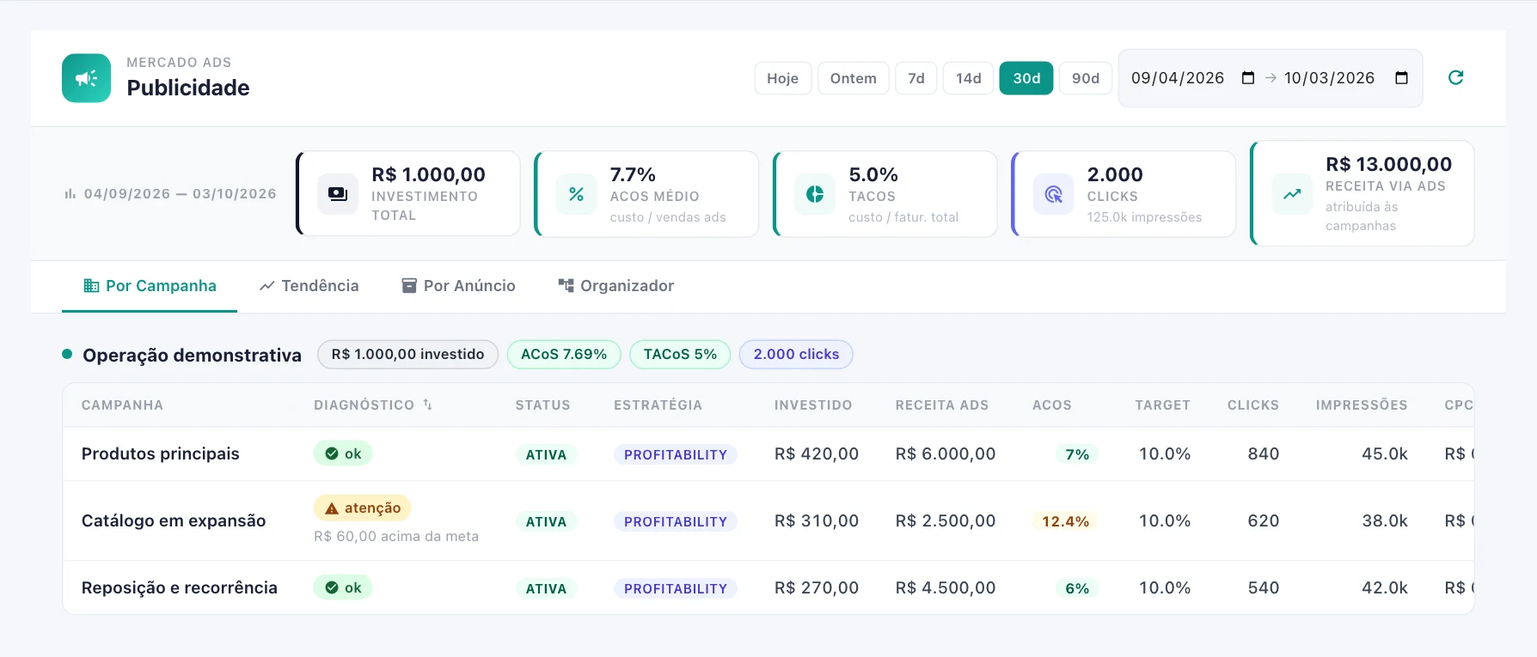
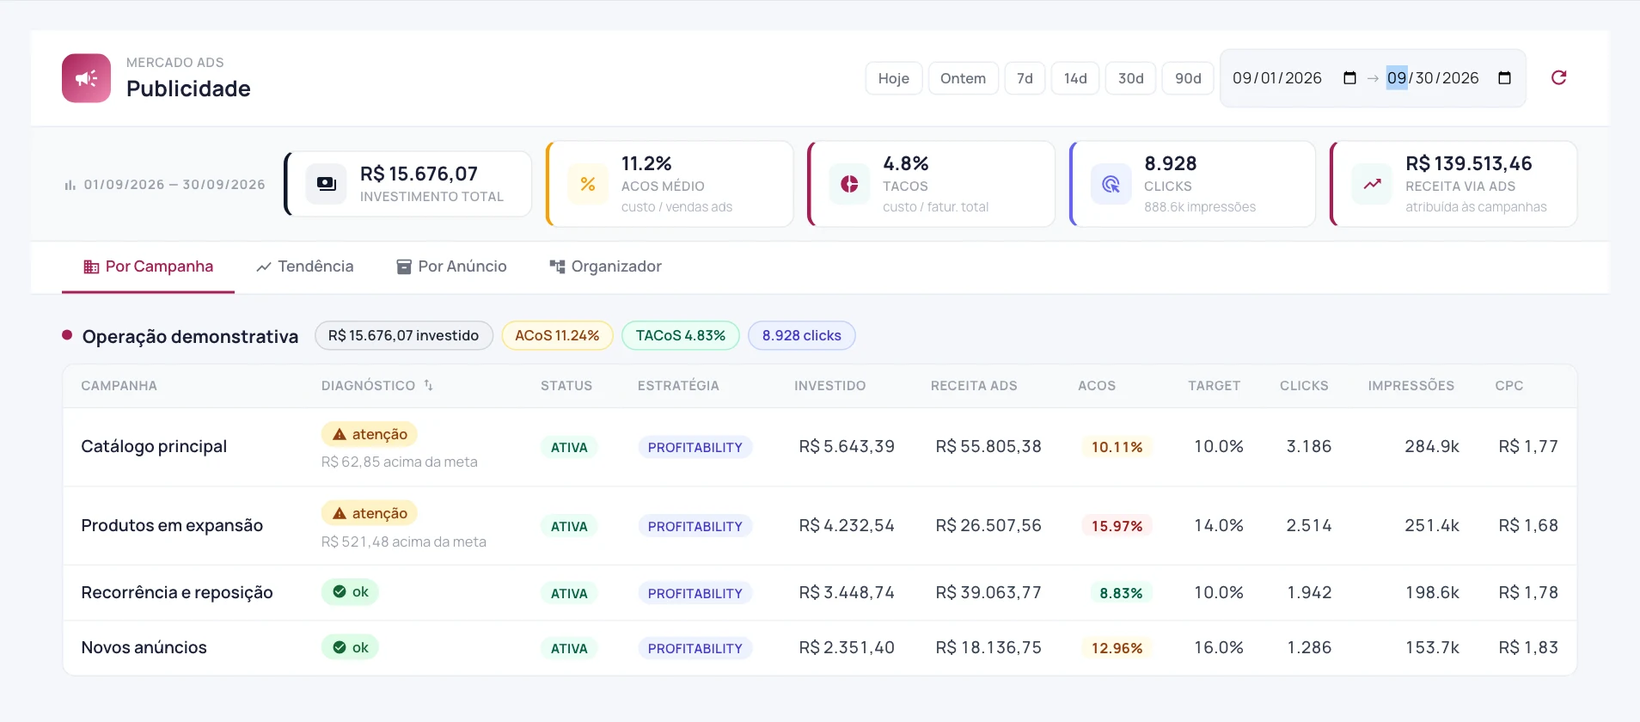
feat(IDV-37): apresente dashboard, cases e seções por análise

diff --git a/src/components/landing/SellerBotTools.vue b/src/components/landing/SellerBotTools.vue
@@ -1,40 +1,38 @@
 <template>
-  <div class="tools-explorer">
-    <div class="tool-selector" role="group" aria-label="Explorar ferramentas do SellerBot">
-      <button v-for="tool in tools" :key="tool.id" type="button" :aria-pressed="active.id === tool.id" aria-controls="tool-detail" @click="active = tool"><span>{{ tool.number }}</span>{{ tool.name }}<span class="tool-arrow" aria-hidden="true">↗</span></button>
-    </div>
-    <div id="tool-detail" class="tool-detail" role="region" aria-label="Detalhes da ferramenta selecionada" aria-live="polite">
-      <div class="tool-detail-heading"><span>SELLERBOT / {{ active.name.toUpperCase() }}</span><span>{{ active.channels }}</span></div>
-      <h3>{{ active.title }}</h3>
-      <p>{{ active.description }}</p>
-      <ProductCapture :key="active.id" :src="active.image" :label="active.name" :alt="active.alt" :width="active.width || 1788" :height="active.height" />
-    </div>
+  <div class="analysis-sequence">
+    <section v-for="analysis in analyses" :id="analysis.id" :key="analysis.id" class="analysis-section" :aria-labelledby="`${analysis.id}-title`">
+      <div class="wrap analysis-grid">
+        <div class="analysis-copy"><p class="eyebrow">{{ analysis.number }} / {{ analysis.name }}</p><h2 :id="`${analysis.id}-title`">{{ analysis.title }}<br><em>{{ analysis.emphasis }}</em></h2><p>{{ analysis.description }}</p><span class="analysis-question">{{ analysis.question }}</span><small>{{ analysis.channels }}</small></div>
+        <ProductCapture :src="analysis.image" :label="analysis.name" :alt="analysis.alt" :width="analysis.width" :height="analysis.height" />
+      </div>
+    </section>
   </div>
 </template>
 <script setup>
-import { ref } from 'vue';
 import ProductCapture from './ProductCapture.vue';
-// Capacidades descritas pelo acervo técnico; não simula métricas nem execução da conta.
-const tools = [
-  { id: 'ads', image: '/images/sellerbot/ads.webp', height: 765, alt: 'Tela de publicidade do SellerBot: investimento, ACoS, TACoS e diagnóstico por campanha, com dados demonstrativos.', channels: 'MERCADO LIVRE', number: '01', name: 'IA em Ads', title: 'Campanhas com diagnóstico.', description: 'Analisa campanhas e relaciona investimento, vendas e custos para propor decisões.', steps: ['Ler campanhas', 'Analisar indicadores', 'Revisar prioridades'], outcome: 'Onde concentrar o investimento. O que precisa de revisão.' },
-  { id: 'promotions', image: '/images/sellerbot/promocoes.webp', height: 1170, alt: 'Assistente de promoções do SellerBot: execução por conta e cobertura promocional dos anúncios, com dados demonstrativos.', channels: 'MERCADO LIVRE', number: '02', name: 'Promoções', title: 'Desconto com critério.', description: 'Simula condições e avalia contribuição antes de propor uma promoção.', steps: ['Conferir custos', 'Simular desconto', 'Revisar proposta'], outcome: 'Limites de desconto alinhados à régua da empresa.' },
-  { id: 'pricing', image: '/images/sellerbot/precos.webp', width: 840, height: 509, alt: 'Cascata da margem no SellerBot: impostos, taxas, frete, embalagem, publicidade e custo do produto, com dados demonstrativos.', channels: 'MERCADO LIVRE + SHOPEE', number: '03', name: 'Precificação', title: 'O preço começa nos custos.', description: 'Relaciona produto, comissão, frete e impostos nas simulações de preço.', steps: ['Compor custos', 'Simular preço', 'Avaliar margem'], outcome: 'Preço e contribuição vistos na mesma conta.' },
-  { id: 'listings', image: '/images/sellerbot/anuncios.webp', height: 1490, alt: 'Interface do SellerBot AI com atalhos de análise e campo de mensagem para preparar um anúncio.', channels: 'MERCADO LIVRE + SHOPEE', number: '04', name: 'Criação de anúncios', title: 'Da ficha à publicação.', description: 'Apoia ficha, atributos, descrição e imagens, com revisão por marketplace.', steps: ['Preparar produto', 'Montar anúncio', 'Revisar e publicar'], outcome: 'Um fluxo de criação com critérios e revisão.' },
+const analyses = [
+  { id: 'analise-ads', number: '01', name: 'IA em Ads', title: 'Sua campanha vende.', emphasis: 'E o investimento?', description: 'Campanhas, custo e receita no mesmo painel. O diagnóstico destaca onde olhar antes de aumentar a verba.', question: 'Decisão: investir, revisar ou reduzir.', channels: 'MERCADO LIVRE', image: '/images/sellerbot/ads.webp', width: 1908, height: 840, alt: 'Publicidade do SellerBot na paleta Krivus: investimento, ACoS, TACoS e diagnóstico de quatro campanhas. Dados demonstrativos.' },
+  { id: 'analise-promocoes', number: '02', name: 'Promoções', title: 'O desconto tem limite.', emphasis: 'A margem define.', description: 'Preço, custos e contribuição antes da oferta. Depois, acompanhamento das promoções e do que foi confirmado na operação.', question: 'Decisão: qual oferta cabe no produto.', channels: 'MERCADO LIVRE', image: '/images/sellerbot/promocoes.webp', width: 1812, height: 413, alt: 'Cobertura promocional no SellerBot: anúncios ativos, com promoção, agendados e sem oferta. Dados demonstrativos.' },
+  { id: 'analise-precos', number: '03', name: 'Preço e margem', title: 'O preço da vitrine.', emphasis: 'A conta por trás.', description: 'Produto, comissão, frete, impostos e mídia. A composição dos custos orienta as simulações de preço por canal.', question: 'Decisão: quanto precisa ficar em cada venda.', channels: 'MERCADO LIVRE + SHOPEE', image: '/images/sellerbot/precos.webp', width: 840, height: 510, alt: 'Cascata de custos e contribuição do SellerBot na paleta Krivus. Dados demonstrativos reconciliados com o dashboard.' },
+  { id: 'analise-anuncios', number: '04', name: 'Criação de anúncios', title: 'Um produto.', emphasis: 'Um anúncio bem feito.', description: 'IA para apoiar ficha, atributos, descrição e imagens. Preparação e revisão considerando as regras de cada marketplace.', question: 'Decisão: o que está pronto para publicar.', channels: 'MERCADO LIVRE + SHOPEE', image: '/images/sellerbot/anuncios.webp', width: 1908, height: 1535, alt: 'SellerBot AI na paleta Krivus, com uma mensagem em rascunho para preparar um anúncio. Nada foi enviado ou publicado.' },
 ];
-const active = ref(tools[0]);
 </script>
 <style scoped>
-.tools-explorer { margin-top:38px; }
-.tool-selector { display:grid; grid-template-columns:repeat(4,1fr); border-bottom:1px solid var(--line); margin-bottom:30px; }
-.tool-selector button { display:flex; align-items:center; gap:14px; min-height:64px; padding:16px 12px; color:var(--muted); background:transparent; border:0; border-bottom:3px solid transparent; font:600 16px/1.4 Manrope,Arial,sans-serif; text-align:left; cursor:pointer; }
-.tool-selector button>span:first-child { font-size:10px; font-weight:500; }
-.tool-selector button[aria-pressed='true'] { color:var(--accent); border-bottom-color:var(--accent); }
-.tool-arrow { margin-left:auto; }
-button:focus-visible { outline:3px solid var(--accent); outline-offset:3px; }
-.tool-detail :deep(.capture-window) { max-height:540px; }
-.tool-detail :deep(.capture-window img) { max-height:540px; object-fit:contain; object-position:top; }
-.tool-detail-heading { display:flex; justify-content:space-between; gap:20px; margin-bottom:12px; font-size:9px; letter-spacing:.08em; color:var(--muted); }
-h3 { font:600 30px/1.1 Manrope,Arial,sans-serif; letter-spacing:-.04em; color:var(--ink); margin:0 0 12px; }
-.tool-detail p { font-size:14px; color:var(--muted); margin:0 0 26px; line-height:1.6; }
-@media(max-width:760px) { .tools-explorer { margin-top:24px; } .tool-selector { grid-template-columns:repeat(2,1fr); margin-bottom:22px; } .tool-selector button { min-height:56px; font-size:12px; gap:8px; padding:12px 4px; } .tool-arrow { display:none; } h3 { font-size:27px; } .tool-detail p { font-size:13px; margin-bottom:20px; } }
+.analysis-section { padding:78px 0; border-bottom:1px solid var(--line); }
+.analysis-section:nth-child(even) { background:var(--surface); }
+.analysis-grid { display:grid; grid-template-columns:minmax(0,.85fr) minmax(0,1.65fr); gap:58px; align-items:center; }
+.analysis-section:nth-child(even) .analysis-copy { order:2; }
+.analysis-section:nth-child(even) .analysis-grid { grid-template-columns:minmax(0,1.65fr) minmax(0,.85fr); }
+.analysis-copy h2 { font:600 clamp(31px,3vw,44px)/1.1 Manrope,Arial,sans-serif; color:var(--ink); letter-spacing:-.045em; margin:0 0 23px; }
+.analysis-copy em { font-style:normal; color:var(--accent); }
+.analysis-copy p { font-size:14px; color:var(--muted); line-height:1.65; margin:0 0 22px; }
+.analysis-copy .eyebrow { color:var(--accent); font-size:10px; font-weight:700; letter-spacing:.1em; margin-bottom:23px; }
+.analysis-question { display:block; padding-top:17px; border-top:1px solid var(--line); font-size:12px; color:var(--ink); font-weight:600; }
+.analysis-copy small { display:block; margin-top:20px; font-size:8px; letter-spacing:.08em; color:var(--muted); }
+.wrap { width:min(1240px,calc(100% - 96px)); margin:auto; }
+.analysis-grid :deep(.capture-window) { max-height:420px; }
+.analysis-grid :deep(.capture-window img) { max-height:420px; object-fit:contain; object-position:top; }
+#analise-precos :deep(.capture-window img) { padding:18px; background:white; }
+@media(max-width:1100px) { .wrap { width:calc(100% - 64px); } .analysis-grid { gap:32px; } }
+@media(max-width:760px) { .wrap { width:calc(100% - 40px); } .analysis-section { padding:48px 0; } .analysis-grid { grid-template-columns:minmax(0,1fr); gap:25px; } .analysis-section:nth-child(even) .analysis-copy { order:0; } .analysis-section:nth-child(even) .analysis-grid { grid-template-columns:minmax(0,1fr); } .analysis-copy h2 { font-size:34px; margin-bottom:17px; } .analysis-copy p { font-size:13px; margin-bottom:18px; } .analysis-copy .eyebrow { margin-bottom:18px; } .analysis-question { padding-top:13px; } .analysis-copy small { margin-top:13px; } #analise-precos :deep(.capture-window) { height:auto; } #analise-precos :deep(.capture-window img) { width:100%; height:auto; padding:12px; } }
 </style>

diff --git a/src/pages/LandingPage.vue b/src/pages/LandingPage.vue
@@ -18,21 +18,23 @@
           <a class="button primary" :href="whatsapp.operation" data-offer="operacao">Conversar sobre minha operação <span aria-hidden="true">↗</span></a>
           <a class="hero-tools-link" href="#ferramentas" @click="goToAnchor">Conhecer as ferramentas <span aria-hidden="true">↓</span></a>
         </div>
-        <div class="hero-analysis"><MarginCalculator @navigate="goToAnchor" /></div>
-        <section id="cases" class="hero-cases" aria-labelledby="cases-title"><h2 id="cases-title">CASES E OPERAÇÕES</h2><div class="case-brands"><div v-for="example in cases" :key="example.name"><strong>{{ example.name }}</strong><span>{{ example.topic }}</span></div></div></section>
-      <div class="hero-product"><div class="hero-product-caption"><span>SELLERBOT POR DENTRO</span><a href="#ferramentas" @click="goToAnchor">Explorar ferramentas ↗</a></div><ProductCapture src="/images/sellerbot/tendencia.webp" label="Publicidade e evolução diária" alt="Tela real de publicidade do SellerBot com indicadores e gráfico diário de investimento. Dados demonstrativos." :height="975" /></div>
+        <div class="hero-dashboard"><p class="product-label">SELLERBOT / VISÃO DA OPERAÇÃO</p><ProductCapture src="/images/sellerbot/dashboard.webp" label="Dashboard da operação" alt="Gráfico real do dashboard SellerBot na paleta Krivus, relacionando faturamento, receita, contribuição e publicidade ao longo de setembro. Dados demonstrativos." :width="1368" :height="863" /><p class="hero-insight">Faturamento, mídia e contribuição.<br>A mesma operação, vista por inteiro.</p></div>
+        <div class="hero-case-links" aria-label="Operações acompanhadas"><a v-for="example in cases" :key="example.id" :href="`#${example.id}`" @click="goToAnchor">{{ example.name }} <span aria-hidden="true">↗</span></a></div>
       </div>
     </section>
 
-    <section id="ferramentas" class="section wrap tools-section" aria-labelledby="tools-title">
-      <div class="tools-heading"><div><p class="eyebrow">SELLERBOT · TECNOLOGIA DA KRIVUS</p><h2 id="tools-title">Veja o SellerBot<br><em>em operação.</em></h2></div><p>Escolha uma ferramenta.<br>Veja a interface por dentro.</p></div>
-      <SellerBotTools />
+    <section id="cases" class="section wrap case-stories" aria-labelledby="cases-title">
+      <p class="eyebrow">CASES E OPERAÇÕES</p><h2 id="cases-title">Cada operação,<br><em>uma história.</em></h2>
+      <div class="stories-grid"><article v-for="example in cases" :id="example.id" :key="example.id" :aria-labelledby="`${example.id}-title`"><div class="story-top"><span>{{ example.topic }}</span><span>{{ example.number }}</span></div><h3 :id="`${example.id}-title`">{{ example.name }}</h3><h4>{{ example.headline }}</h4><p>{{ example.story }}</p><div class="story-work"><span>NO TRABALHO</span><p>{{ example.work }}</p></div></article></div>
     </section>
+
+    <section id="ferramentas" class="analysis-intro wrap" aria-labelledby="tools-title"><p class="eyebrow">SELLERBOT · TECNOLOGIA DA KRIVUS</p><h2 id="tools-title">Uma análise para<br><em>cada decisão.</em></h2><nav aria-label="Análises do SellerBot"><a href="#analise-ads" @click="goToAnchor">Ads</a><a href="#analise-promocoes" @click="goToAnchor">Promoções</a><a href="#analise-precos" @click="goToAnchor">Preço e margem</a><a href="#analise-anuncios" @click="goToAnchor">Anúncios</a><a href="#tributario" @click="goToAnchor">Tributário e saúde</a></nav></section>
+    <SellerBotTools />
 
     <section id="tributario" class="tax-section" aria-labelledby="tax-title">
       <div class="wrap section tax-grid">
-        <div><p class="eyebrow">DIAGNÓSTICO DA KRIVUS</p><h2 id="tax-title">O tributário decide<br>quem ganha<br><em>o jogo.</em></h2><a class="text-link" href="#margin-tax" @click="goToAnchor">Simular o impacto na margem <span aria-hidden="true">↑</span></a></div>
-        <div class="tax-decisions"><h3>Tributos e saúde da empresa.</h3><p>Margem, caixa, estoque, compras e carga tributária na mesma análise. Diagnóstico e prioridades para a sua operação.</p><ProductCapture src="/images/sellerbot/precos.webp" label="Composição da margem" alt="Cascata da margem no SellerBot, do faturamento à contribuição após impostos e custos. Dados demonstrativos." :width="840" :height="509" /><p class="tax-note">Na reforma tributária, cenários de IBS e CBS são avaliados com a contabilidade. IBS: Imposto sobre Bens e Serviços. CBS: Contribuição sobre Bens e Serviços.</p><a class="tax-source" href="https://www.gov.br/receitafederal/pt-br/assuntos/noticias/2026/agosto/cgsn-atualiza-regras-do-simples-nacional-para-adequacao-a-reforma-tributaria-do-consumo">Reforma tributária · Receita Federal <span aria-hidden="true">↗</span></a></div>
+        <div><p class="eyebrow">DIAGNÓSTICO DA KRIVUS</p><h2 id="tax-title">O tributário decide<br>quem ganha<br><em>o jogo.</em></h2><a class="text-link" :href="whatsapp.tax" data-offer="tributario">Conversar sobre o diagnóstico <span aria-hidden="true">↗</span></a></div>
+        <div class="tax-decisions"><h3>Tributos e saúde da empresa.</h3><p>Margem, caixa, estoque, compras e carga tributária na mesma análise. Diagnóstico e prioridades para a sua operação.</p><ProductCapture src="/images/sellerbot/saude.webp" label="Saúde econômica" alt="Visão financeira do SellerBot: receita, impostos, contribuição, resultado, ativo e variação de caixa. Dados demonstrativos, sem associação a clientes." :width="1836" :height="1050" /><p class="tax-note">Na reforma tributária, cenários de IBS e CBS são avaliados com a contabilidade. IBS: Imposto sobre Bens e Serviços. CBS: Contribuição sobre Bens e Serviços.</p><a class="tax-source" href="https://www.gov.br/receitafederal/pt-br/assuntos/noticias/2026/agosto/cgsn-atualiza-regras-do-simples-nacional-para-adequacao-a-reforma-tributaria-do-consumo">Reforma tributária · Receita Federal <span aria-hidden="true">↗</span></a></div>
       </div>
     </section>
 
@@ -56,7 +58,6 @@
 <script setup>
 import { useMeta } from 'quasar';
 import KrivusLogo from 'src/components/landing/KrivusLogo.vue';
-import MarginCalculator from 'src/components/landing/MarginCalculator.vue';
 import SellerBotTools from 'src/components/landing/SellerBotTools.vue';
 import ProductCapture from 'src/components/landing/ProductCapture.vue';
 
@@ -79,14 +80,15 @@ const contact = (message) => `https://wa.me/5511998180409?text=${encodeURICompon
 const whatsapp = {
   operation: contact('Olá, quero conversar sobre minha operação com a Krivus. Vendo em: ___. Minha principal dificuldade hoje é: ___.'),
   mentoring: contact('Olá, quero avaliar a mentoria Krivus para minha empresa. Vendo em: ___. Minha principal dificuldade hoje é: ___.'),
+  tax: contact('Olá, quero conversar sobre um diagnóstico tributário e da saúde da minha empresa com a Krivus.'),
   consulting: contact('Olá, quero conversar sobre consultoria Krivus. Vendo em: ___. Preciso de apoio na execução de: ___.'),
 };
 // Nomes autorizados pelo dono; contextos sustentados no acervo, sem métricas inventadas.
 const cases = [
-  { name: 'Doseverde', topic: 'PREÇO E PROMOÇÕES', context: 'Análise de desconto com produto real para discutir contribuição e volume.' },
-  { name: 'Livpro', topic: 'MERCADO LIVRE E SHOPEE', context: 'Dados dos dois canais conectados ao SellerBot para acompanhar a operação.' },
-  { name: 'Casadossuportes', topic: 'PRECIFICAÇÃO POR CANAL', context: 'Revisão de preços e custos considerando as condições de cada marketplace.' },
-  { name: 'GrampoFix', topic: 'ANÚNCIOS E PROMOÇÕES', context: 'Operação conectada ao SellerBot para análise de anúncios e promoções.' },
+  { id: 'case-doseverde', number: '01', name: 'Doseverde', topic: 'PREÇO E PROMOÇÕES', headline: 'Mais desconto exige outra conta.', story: 'Na operação de substratos, analisamos um produto real para entender o efeito de uma promoção. O percentual de margem e o valor que fica por unidade precisam ser lidos juntos.', work: 'Custo, tarifa e frete na simulação. Comparação da contribuição antes de propor o desconto.' },
+  { id: 'case-livpro', number: '02', name: 'Livpro', topic: 'MERCADO LIVRE E SHOPEE', headline: 'Dois canais. Uma empresa.', story: 'Mercado Livre e Shopee trazem pedidos, anúncios e custos diferentes. A Livpro tem os dois canais conectados ao SellerBot para apoiar o acompanhamento da operação.', work: 'Leitura dos dados por canal e acompanhamento dos anúncios e campanhas.' },
+  { id: 'case-casadossuportes', number: '03', name: 'Casadossuportes', topic: 'CUSTOS E PRECIFICAÇÃO', headline: 'O mesmo produto, contas diferentes.', story: 'Na revisão de preços da Shopee, o trabalho considerou custos do produto, taxas e frete por peso. Preço de lista e preço da oferta foram tratados separadamente.', work: 'Régua por canal, revisão por produto e confirmação das condições antes de alterar preços.' },
+  { id: 'case-grampofix', number: '04', name: 'GrampoFix', topic: 'ANÚNCIOS E CAMPANHAS', headline: 'A análise chega ao anúncio.', story: 'A operação conectada ao SellerBot permite acompanhar campanhas e anúncios. O trabalho cruza leitura de publicidade com as condições promocionais de cada produto.', work: 'Dados de campanhas, anúncios e promoções disponíveis para apoiar a análise da operação.' },
 ];
 const questions = [
   { title: 'Quem participa da mentoria?', answer: 'Você e as pessoas que decidem e executam. Dez encontros em cinco meses, com prioridades definidas pelo diagnóstico.' },
@@ -104,7 +106,4 @@ function goToAnchor(event) {
   history.replaceState(null, '', event.currentTarget.getAttribute('href'));
 }
 </script>
-<style>
-@font-face{font-family:Manrope;src:url('../assets/fonts/Manrope.ttf') format('truetype');font-weight:200 800;font-display:swap}
-</style>
 <style scoped src="./landing.css"></style>

diff --git a/src/pages/landing.css b/src/pages/landing.css
@@ -32,7 +32,6 @@ em { font-style:normal; color:var(--accent); }
 .primary:hover { background:#871b48; }
 .light { background:var(--paper); color:var(--ink); }
 .light:hover { background:white; }
-.hero-analysis { align-self:start; padding:0 0 0 34px; border-left:1px solid #334753; animation:arrive .6s ease-out; }
 .services { background:var(--night); color:var(--paper); }
 .services h2, .services h3 { color:var(--paper); }
 .services .eyebrow, .services em { color:var(--pink); }
@@ -153,7 +152,6 @@ section, [id] { scroll-margin-top:32px; }
 .tax-source { display:inline-flex; align-items:center; gap:12px; min-height:44px; font-size:11px; }
 @media(max-width:1100px) { .tax-grid { gap:50px; } }
 @media(max-width:760px) {
-  .hero-analysis { padding:24px 0 0; margin-top:35px; border-left:0; border-top:1px solid #334753; display:block; }
   .tax-grid { grid-template-columns:1fr; gap:25px; }
   .tax-grid>div>p:not(.eyebrow) { max-width:100%; }
   .tax-decisions h3 { font-size:29px; }
@@ -162,44 +160,52 @@ section, [id] { scroll-margin-top:32px; }
 @media(max-width:1100px) { }
 @media(max-width:760px) { .service-grid, .faq { grid-template-columns:1fr; gap:30px; } .faq { gap:8px; } }
 .hero-tools-link { display:flex; width:fit-content; gap:20px; align-items:center; min-height:44px; margin-top:15px; color:var(--pink); font-size:12px; text-decoration:none; }
-.hero-analysis { grid-column:2; grid-row:1; }
-.hero-cases { grid-column:1/-1; margin-top:48px; padding:26px 0 30px; border-top:1px solid #435b6b; }
-.hero-cases h2 { font:700 9px/1.5 Manrope,Arial,sans-serif; letter-spacing:.12em; color:#b6c8d4; margin:0 0 22px; }
-.case-brands { display:grid; grid-template-columns:repeat(4,1fr); gap:28px; }
-.case-brands strong { display:block; font-size:26px; font-weight:600; letter-spacing:-.04em; }
-.case-brands span { display:block; margin-top:6px; color:#b6c8d4; font-size:9px; letter-spacing:.06em; }
-.tools-heading { display:grid; grid-template-columns:1.3fr 1fr; gap:75px; align-items:end; }
-.tools-heading p:last-child { color:var(--muted); font-size:15px; }
-.tax-areas { display:flex; gap:10px 20px; flex-wrap:wrap; border-top:1px solid #8fa8b8; border-bottom:1px solid #8fa8b8; padding:18px 0; margin:24px 0; font-size:12px; font-weight:650; }
-@media(max-width:1100px) { .case-brands strong { font-size:23px; } .tools-heading { gap:40px; } }
+
 @media(max-width:760px) {
-  .hero-analysis { grid-column:auto; grid-row:auto; order:3; }
-  .hero-cases { order:2; margin-top:25px; padding:22px 0 0; }
-  .hero-cases h2 { margin-bottom:15px; }
-  .case-brands { grid-template-columns:1fr 1fr; gap:18px 20px; }
-  .case-brands strong { font-size:22px; }
-  .case-brands span { font-size:8px; }
-  .tools-heading { grid-template-columns:1fr; gap:0; }
-  .tools-heading h2 { font-size:36px; }
-}
-@media(max-width:360px) { .case-brands { gap:18px 12px; } .case-brands strong { font-size:19px; } }
-@media(min-width:761px) {
-  .hero-grid { grid-template-columns:1.2fr 1fr; align-items:start; }
-  .hero-analysis { grid-row:1/3; }
-  .hero-cases { grid-column:1; grid-row:2; margin-top:24px; padding:20px 0 28px; }
-  .case-brands { grid-template-columns:1fr 1fr; gap:20px; }
 }
 
-.hero-product { min-width:0; grid-column:1/-1; grid-row:3; padding:38px 0 48px; }
-.hero-product-caption { display:flex; justify-content:space-between; align-items:center; margin-bottom:16px; font-size:10px; letter-spacing:.08em; color:#c3d3dd; }
-.hero-product-caption a { font-size:11px; letter-spacing:0; min-height:44px; display:flex; align-items:center; gap:10px; }
-.hero-product :deep(.capture-window) { height:430px; }
-.hero-product :deep(.capture-window img) { width:100%; height:430px; object-fit:contain; }
-.hero-product :deep(figcaption) { color:#c3d3dd; }
-.hero-product :deep(.capture-open:focus-visible) { outline-color:var(--pink); }
+@media(min-width:761px) {
+  .hero-grid { grid-template-columns:1.2fr 1fr; align-items:start; }
+}
+
 .tax-decisions :deep(.product-capture) { margin:24px 0; }
 .tax-decisions :deep(.capture-window img) { width:100%; height:auto; }
 .tax-decisions :deep(.capture-window) { height:auto; }
-@media(max-width:760px) { .hero-product { padding-top:28px; padding-bottom:32px; } .hero-product :deep(.capture-window) { height:290px; } .hero-product :deep(.capture-window img) { width:auto; height:290px; max-width:none; } .hero-product-caption { font-size:9px; } }
 
-@media(max-width:760px) { .hero-product { grid-column:1; grid-row:auto; order:3; padding-bottom:0; } .hero-analysis { order:4; margin-bottom:40px; } }
+
+/* IDV-37: produto na abertura e narrativas curtas por operação. */
+.hero { padding-bottom:35px; }
+.hero-grid { grid-template-columns:minmax(0,1fr) minmax(0,1.25fr); gap:40px 55px; align-items:center; }
+.hero-dashboard { min-width:0; }
+.product-label { color:#c3d3dd; font-size:9px; letter-spacing:.09em; margin:0 0 16px; }
+.hero-dashboard :deep(figcaption) { color:#c3d3dd; }
+.hero-dashboard :deep(.capture-open:focus-visible) { outline-color:var(--pink); }
+.hero-insight { color:#c3d3dd; font-size:12px; line-height:1.6; margin:20px 0 0; }
+.hero-case-links { grid-column:1/-1; display:flex; justify-content:space-between; flex-wrap:wrap; gap:24px; border-top:1px solid #435b6b; padding:20px 0 0; }
+.hero-case-links a { color:#edf4f7; font-size:20px; letter-spacing:-.025em; font-weight:600; text-decoration:none; min-height:44px; display:flex; align-items:center; gap:25px; }
+.hero-case-links span { color:#f28ab4; font-size:15px; }
+.stories-grid { display:grid; grid-template-columns:1fr 1fr; gap:0 70px; margin-top:45px; }
+.stories-grid article { padding:28px 0 35px; border-top:1px solid var(--line); }
+.story-top { display:flex; justify-content:space-between; gap:20px; color:var(--muted); font-size:9px; letter-spacing:.08em; margin-bottom:17px; }
+.stories-grid h3 { font-size:30px; margin-bottom:17px; }
+.stories-grid h4 { font:600 16px/1.4 Manrope,Arial,sans-serif; color:var(--ink); margin:0 0 13px; }
+.stories-grid p { font-size:13px; color:var(--muted); line-height:1.7; margin:0; max-width:500px; }
+.story-work { display:grid; grid-template-columns:90px 1fr; gap:15px; margin-top:20px; }
+.story-work span { color:var(--accent); font-size:8px; letter-spacing:.08em; font-weight:700; padding-top:4px; }
+.story-work p { font-size:12px; }
+.analysis-intro { padding:0 0 24px; }
+.analysis-intro h2 { margin-bottom:25px; }
+.analysis-intro nav { display:flex; gap:30px; flex-wrap:wrap; border-top:1px solid var(--line); padding-top:13px; }
+.analysis-intro nav a { color:var(--ink); font-size:12px; min-height:44px; display:flex; align-items:center; text-decoration:none; }
+@media(max-width:1100px) { .hero-grid { gap:35px; } .stories-grid { gap:0 45px; } }
+@media(max-width:760px) {
+ .hero { padding-bottom:25px; } .hero-grid { grid-template-columns:minmax(0,1fr); gap:28px; }
+ .hero-dashboard { order:2; } .hero-case-links { order:3; gap:6px 20px; display:grid; grid-template-columns:1fr 1fr; }
+ .hero-case-links a { font-size:17px; gap:12px; justify-content:space-between; }
+ .hero-dashboard :deep(.capture-window) { height:auto; }
+ .hero-dashboard :deep(.capture-window img) { width:100%; height:auto; max-width:100%; }
+ .hero-insight { font-size:11px; margin-top:15px; }
+ .stories-grid { grid-template-columns:1fr; gap:0; margin-top:28px; }
+ .stories-grid article { padding:23px 0 28px; } .stories-grid h3 { font-size:28px; }
+ .analysis-intro { padding-bottom:0; } .analysis-intro nav { gap:0 24px; }
+}

diff --git a/tests/e2e/landing.spec.js b/tests/e2e/landing.spec.js
@@ -105,12 +105,12 @@ test.describe('Landing pública Krivus (IDV-13)', () => {
       .toBeLessThan(200)
   })
 
-  test('quatro chamadas contextuais de WhatsApp com data-offer', async ({ page }) => {
+  test('cinco chamadas contextuais de WhatsApp com data-offer', async ({ page }) => {
     await page.addInitScript(() => localStorage.clear())
     await page.goto('/')
 
     const waLinks = page.locator('a[href*="wa.me/5511998180409"][data-offer]')
-    await expect(waLinks).toHaveCount(4)
+    await expect(waLinks).toHaveCount(5)
     await expect(page.locator('a[data-offer="mentoria"]')).toHaveCount(1)
     await expect(page.locator('a[data-offer="consultoria"]')).toHaveCount(1)
   })
@@ -153,87 +153,36 @@ test.describe('Landing pública Krivus (IDV-13)', () => {
     )
     expect(overflow).toBeLessThanOrEqual(0)
   })
-  test('calculadora relaciona custos, impostos e margem de contribuição', async ({ page }) => {
+  test('dashboard substitui calculadora e cada análise tem sua seção', async ({ page }) => {
     await page.goto('/');
-    const result = page.locator('.calculator-result');
-    await expect(result).toContainText('R$ 5,00');
-    await expect(result).toContainText('5,0%');
-    await page.locator('#margin-tax').fill('10');
-    await expect(result).toContainText('R$ 6,00');
-    await expect(result).toContainText('6,0%');
-    await page.locator('#margin-price').fill('200');
-    await expect(result).toContainText('R$ 82,00');
-    await expect(result).toContainText('41,0%');
-    await page.locator('#margin-other').fill('100');
-    await expect(result).toContainText('-R$ 18,00');
-    await expect(result).toContainText('-9,0%');
-    await expect(result).toContainText('superam o preço');
-  });
-
-  test('sliders mostram valores, respondem ao teclado e respeitam limites', async ({ page }) => {
-    await page.goto('/');
-    await expect(page.locator('input[type="range"]')).toHaveCount(7);
-    const tax = page.locator('#margin-tax');
-    await expect(tax).toHaveValue('11');
-    await tax.focus();
-    await page.keyboard.press('ArrowRight');
-    await expect(tax).toHaveValue('11.5');
-    await expect(page.locator('label[for="margin-tax"] output')).toHaveText('11,5%');
-    await expect(page.locator('.calculator-result')).toContainText('R$ 4,50');
-    await page.locator('#margin-price').focus();
-    await page.keyboard.press('Home');
-    await expect(page.locator('#margin-price')).toHaveValue('1');
-    await expect(page.locator('.calculator-result')).not.toContainText('NaN');
-    await page.keyboard.press('End');
-    await expect(page.locator('#margin-price')).toHaveValue('1000');
-    await expect(page.locator('.calculator-result')).not.toContainText('Infinity');
-  });
-
-  test('tributário conecta à calculadora e os quatro cases são apresentados', async ({ page }) => {
-    await page.goto('/');
-    await page.locator('#tributario a[href="#margin-tax"]').click();
-    await expect(page.locator('#margin-tax')).toBeFocused();
-    for (const name of ['Doseverde', 'Livpro', 'Casadossuportes', 'GrampoFix']) {
-      await expect(page.locator('#cases')).toContainText(name);
+    await expect(page.locator('input[type="range"]')).toHaveCount(0);
+    await expect(page.locator('.hero-dashboard img')).toHaveAttribute('src', '/images/sellerbot/dashboard.webp');
+    for (const id of ['analise-ads', 'analise-promocoes', 'analise-precos', 'analise-anuncios']) {
+      const section = page.locator(`#${id}`);
+      await expect(section.getByRole('heading', { level: 2 })).toBeVisible();
+      await section.locator('img').scrollIntoViewIfNeeded();
+      await expect.poll(() => section.locator('img').evaluate(el => el.complete && el.naturalWidth > 0)).toBe(true);
     }
-    await expect(page.locator('#tax-title')).toContainText('quem ganha');
-  });
-
-  test('ferramentas do SellerBot mudam ao selecionar e cases aparecem na abertura', async ({ page }) => {
-    await page.goto('/');
-    await expect(page.locator('#inicio #cases')).toBeAttached();
-    const selected = page.locator('#tool-detail');
-    await expect(selected).toContainText('Campanhas com diagnóstico');
-    const choices = [
-      ['Promoções', 'Desconto com critério'],
-      ['Precificação', 'O preço começa nos custos'],
-      ['Criação de anúncios', 'Da ficha à publicação'],
-    ];
-    for (const [label, title] of choices) {
-      const button = page.getByRole('group', { name: 'Explorar ferramentas do SellerBot' }).getByRole('button', { name: new RegExp(label) });
-      await button.click();
-      await expect(button).toHaveAttribute('aria-pressed', 'true');
-      await expect(selected).toContainText(title);
+    await expect(page.locator('#tributario a[data-offer="tributario"]')).toHaveAttribute('href', /wa\.me/);
+    for (const id of ['case-doseverde', 'case-livpro', 'case-casadossuportes', 'case-grampofix']) {
+      const story = page.locator(`#${id}`);
+      await expect(story.getByRole('heading', { level: 3 })).toBeVisible();
+      await expect(story.locator('.story-work')).toContainText('NO TRABALHO');
     }
-    await expect(page.getByText('A venda entrou.', { exact: false })).toHaveCount(0);
   });
 
-  test('capturas do produto carregam e ampliam com retorno de foco', async ({ page }) => {
+  test('histórias têm âncoras e capturas ampliam com retorno de foco', async ({ page }) => {
     await page.goto('/');
-    const open = page.getByRole('button', { name: 'Ampliar Publicidade e evolução diária' });
+    await page.locator('.hero-case-links a[href="#case-doseverde"]').click();
+    await expect(page.locator('#case-doseverde')).toBeFocused();
+    const open = page.getByRole('button', { name: 'Ampliar Dashboard da operação', exact: true });
     await open.scrollIntoViewIfNeeded();
-    const image = open.locator('img');
-    await expect.poll(() => image.evaluate(el => el.complete && el.naturalWidth > 0)).toBe(true);
+    await expect.poll(() => open.locator('img').evaluate(el => el.complete && el.naturalWidth > 0)).toBe(true);
     await open.click();
-    await expect(page.getByRole('region', { name: 'Publicidade e evolução diária em tamanho ampliado' })).toBeVisible();
+    const close = page.getByRole('button', { name: 'Fechar imagem ampliada' });
+    await expect(close).toBeFocused();
     await page.keyboard.press('Escape');
     await expect(open).toBeFocused();
-    for (const label of ['IA em Ads', 'Promoções', 'Precificação', 'Criação de anúncios']) {
-      await page.getByRole('group', { name: 'Explorar ferramentas do SellerBot' }).getByRole('button', { name: new RegExp(label) }).click();
-      const screenshot = page.locator('#tool-detail img');
-      await screenshot.scrollIntoViewIfNeeded();
-      await expect.poll(() => screenshot.evaluate(el => el.complete && el.naturalWidth > 0)).toBe(true);
-    }
   });
 
   test('skip link transfere foco e reduced motion desativa animação', async ({ page }) => {

diff --git a/public/images/sellerbot/README.md b/public/images/sellerbot/README.md
@@ -1,11 +1,14 @@
-# Capturas do SellerBot — IDV-36
+# Capturas do SellerBot — IDV-37
 
-Capturas das páginas Vue reais do frontend em `19e0dfb`, realizadas em 03/10/2026 com Playwright em ambiente local. Respostas de API demonstrativas interceptadas no navegador: nenhum acesso a conta, banco ou escrita no marketplace. Contas, SKUs, produtos e valores são exemplos; a landing identifica isso nas legendas. Não representam resultado de cliente.
+Interfaces Vue reais capturadas em ambiente local em 04/10/2026 após aplicar a paleta Krivus ao aplicativo. Respostas de API demonstrativas interceptadas apenas no navegador: nenhum acesso a contas, banco ou escrita no marketplace. Os exemplos não são resultados dos clientes; a landing identifica os dados demonstrativos.
 
-- `ads.webp`: `/app/ads`, indicadores e diagnóstico por campanha.
-- `tendencia.webp`: mesma página, aba Tendência.
-- `promocoes.webp`: `/app/promotions/advisor`, execução e cobertura.
-- `precos.webp`: `/app/financeiro/margem`, recorte da cascata de custos. Trata-se de composição de margem, não screenshot de um módulo autônomo de precificação.
-- `anuncios.webp`: `/app/sellerbot-ai`, atalhos e mensagem em rascunho. Nada foi enviado ou publicado.
+- `dashboard.webp`: gráfico real de `/app/dashboard`, setembro/2026, sem suavização, faturamento e contribuição após Ads.
+- `ads.webp`: `/app/ads`, quatro campanhas com diferentes custos, metas e diagnósticos.
+- `promocoes.webp`: cobertura de `/app/promotions/advisor`, 148 anúncios distribuídos em 92 ativos, 11 agendados, 38 sem promoção e 7 não confirmados.
+- `precos.webp`: cascata de `/app/financeiro/margem`; composição de custos, não screenshot de módulo autônomo de precificação.
+- `saude.webp`: visão financeira real do aplicativo, incluindo resultado após despesas e variação de caixa; cenário demonstrativo, sem apuração tributária de cliente.
+- `anuncios.webp`: SellerBot AI, mensagem em rascunho; nada enviado ou publicado.
 
-Codificação WebP pelo canvas do Chromium, qualidade 88%, sem alteração visual da interface. Dimensões fornecidas nos componentes; carregamento diferido e ampliação por diálogo. Atualizar as capturas quando a interface do produto mudar.
+Cenário demonstrativo coerente: 2.817 pedidos, GMV R$324.449,90, ticket R$115,18, publicidade R$15.676,07 e receita atribuída às campanhas R$139.513,46 (ACoS 11,24%; TACoS 4,83%). Custos: taxas R$47.163,78; impostos R$35.689,50; frete R$24.819,18; embalagem R$3.568,97; produto R$139.475,67. Contribuição após Ads R$58.056,73. Soma das campanhas = total de Ads; cascata = contribuição do dashboard. Série diária com variação de volume, ticket e custos. Percentuais seguem a base de cada interface, sem modificar fórmulas de negócio do aplicativo.
+
+WebP 88%, codificado pelo Chromium sem retoque da interface; capturas recortadas nos componentes, dimensões explícitas e ampliação acessível. Atualizar as imagens quando o produto mudar.
